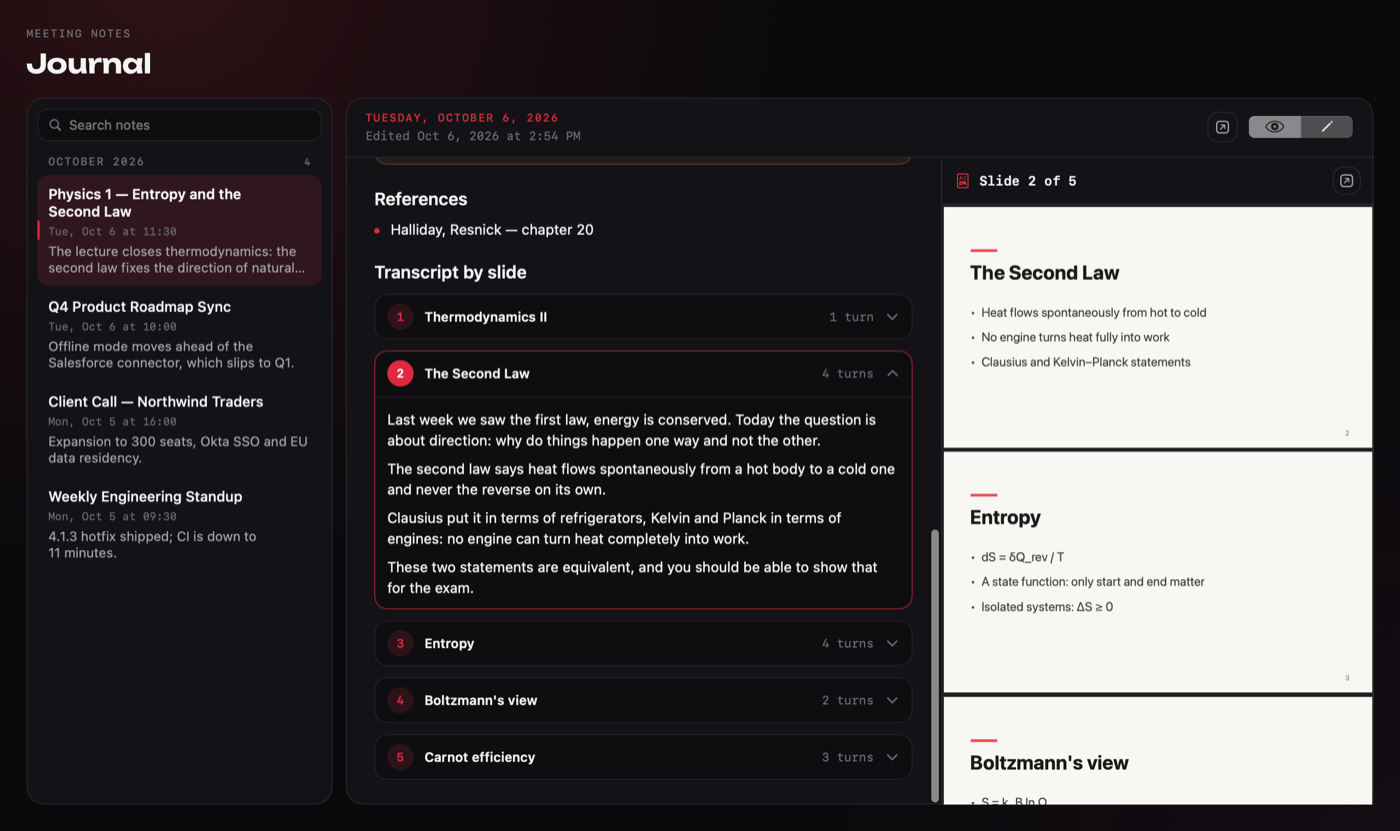
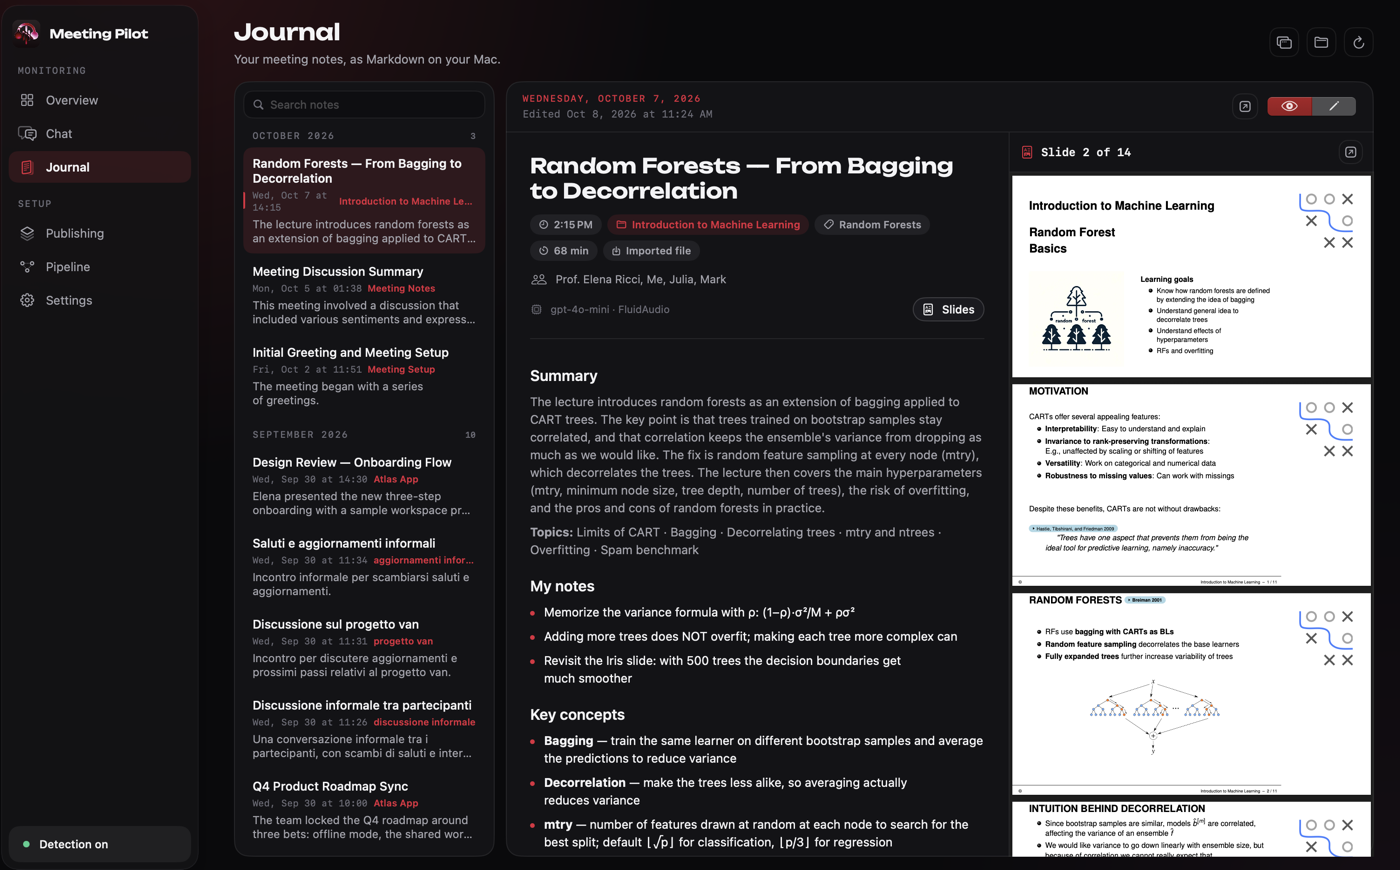
Refresh README screenshots: lecture with slides, Publishing, Pipeline

diff --git a/README.md b/README.md
@@ -92,7 +92,7 @@ curl -fsSL https://raw.githubusercontent.com/mard4/meeting-pilot/main/macos/Meet
     <td width="60%" align="center"><img src="docs/assets/readme/profile.png" alt="Welcome tour asking whether you are a student, a professional or both, with the sections each kind of note gets" width="100%" /></td>
   </tr>
   <tr>
-    <td width="60%" align="center"><img src="docs/assets/readme/lecture-slides.png" alt="A lecture in the Journal, its transcript split slide by slide next to the slides PDF" width="100%" /></td>
+    <td width="60%" align="center"><img src="docs/assets/readme/lecture-slides.png" alt="A Random Forests lecture in the Journal: summary, my notes and key concepts next to its slides PDF" width="100%" /></td>
     <td width="40%" valign="middle">
       <h3>SLIDES NEXT TO THE TRANSCRIPT</h3>
       Add the lecture's PDF: every part of the transcript is matched to its slide, on your Mac and without a model. The summary cites them as <i>(slide 3)</i>. Got the PDF after the lecture? Add it to any recording later: names and terms the transcript misheard are corrected from the slides, and the summary and notes are rewritten.
@@ -170,7 +170,7 @@ curl -fsSL https://raw.githubusercontent.com/mard4/meeting-pilot/main/macos/Meet
 <table>
   <tr>
     <td align="center" width="50%"><img src="docs/assets/readme/publishing.png" alt="Publishing: Notion, Obsidian, Apple Notes and the local Journal, plus summary template, prompt and glossary" width="100%" /><br /><sub><b>Publishing</b> · where notes go, what they include</sub></td>
-    <td align="center" width="50%"><img src="docs/assets/readme/pipeline.png" alt="Pipeline: built-in recorder and audio source" width="100%" /><br /><sub><b>Pipeline</b> · recorder, audio source, transcription, summary model</sub></td>
+    <td align="center" width="50%"><img src="docs/assets/readme/pipeline.png" alt="Pipeline: built-in recorder, audio source, Apple On-Device transcription and the summary model" width="100%" /><br /><sub><b>Pipeline</b> · recorder, audio source, transcription, summary model</sub></td>
   </tr>
 </table>
 
